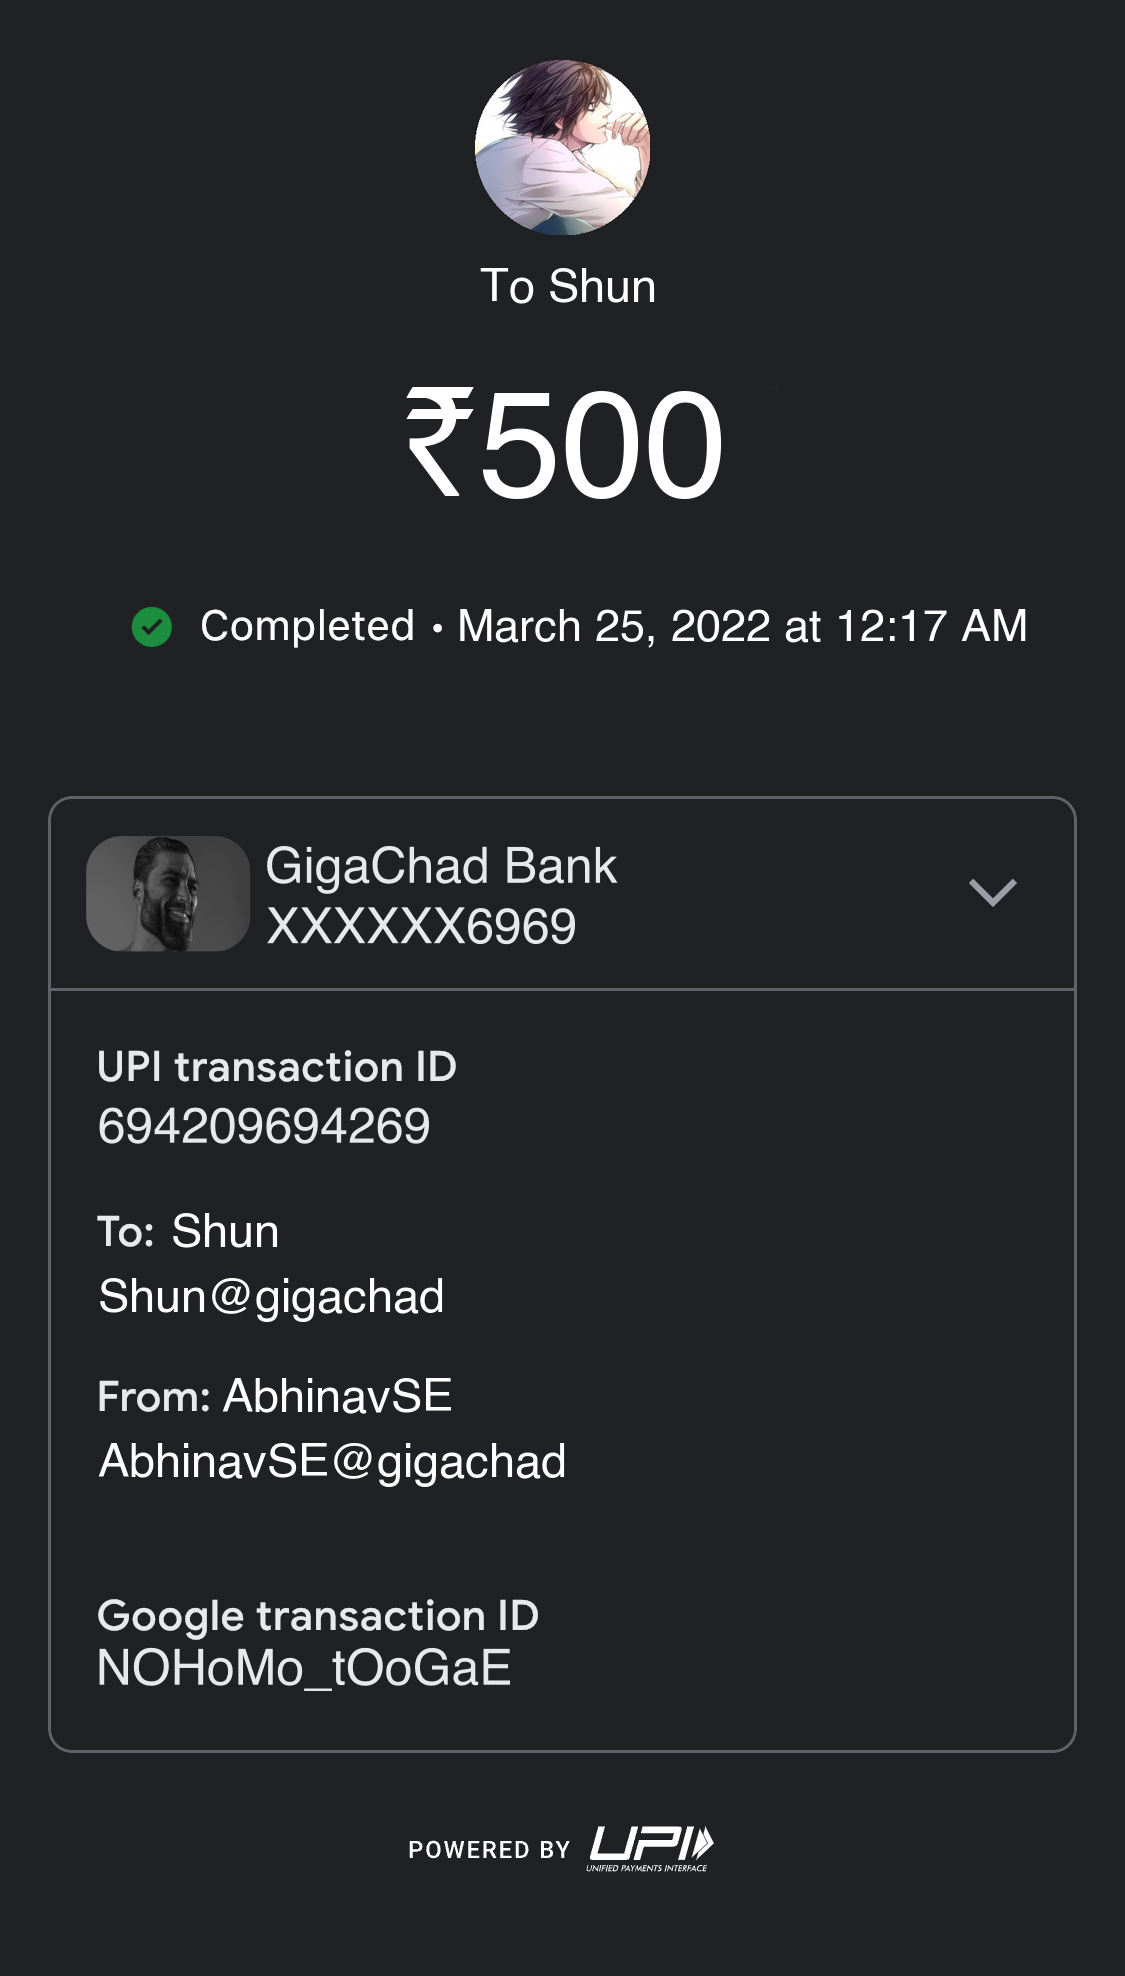
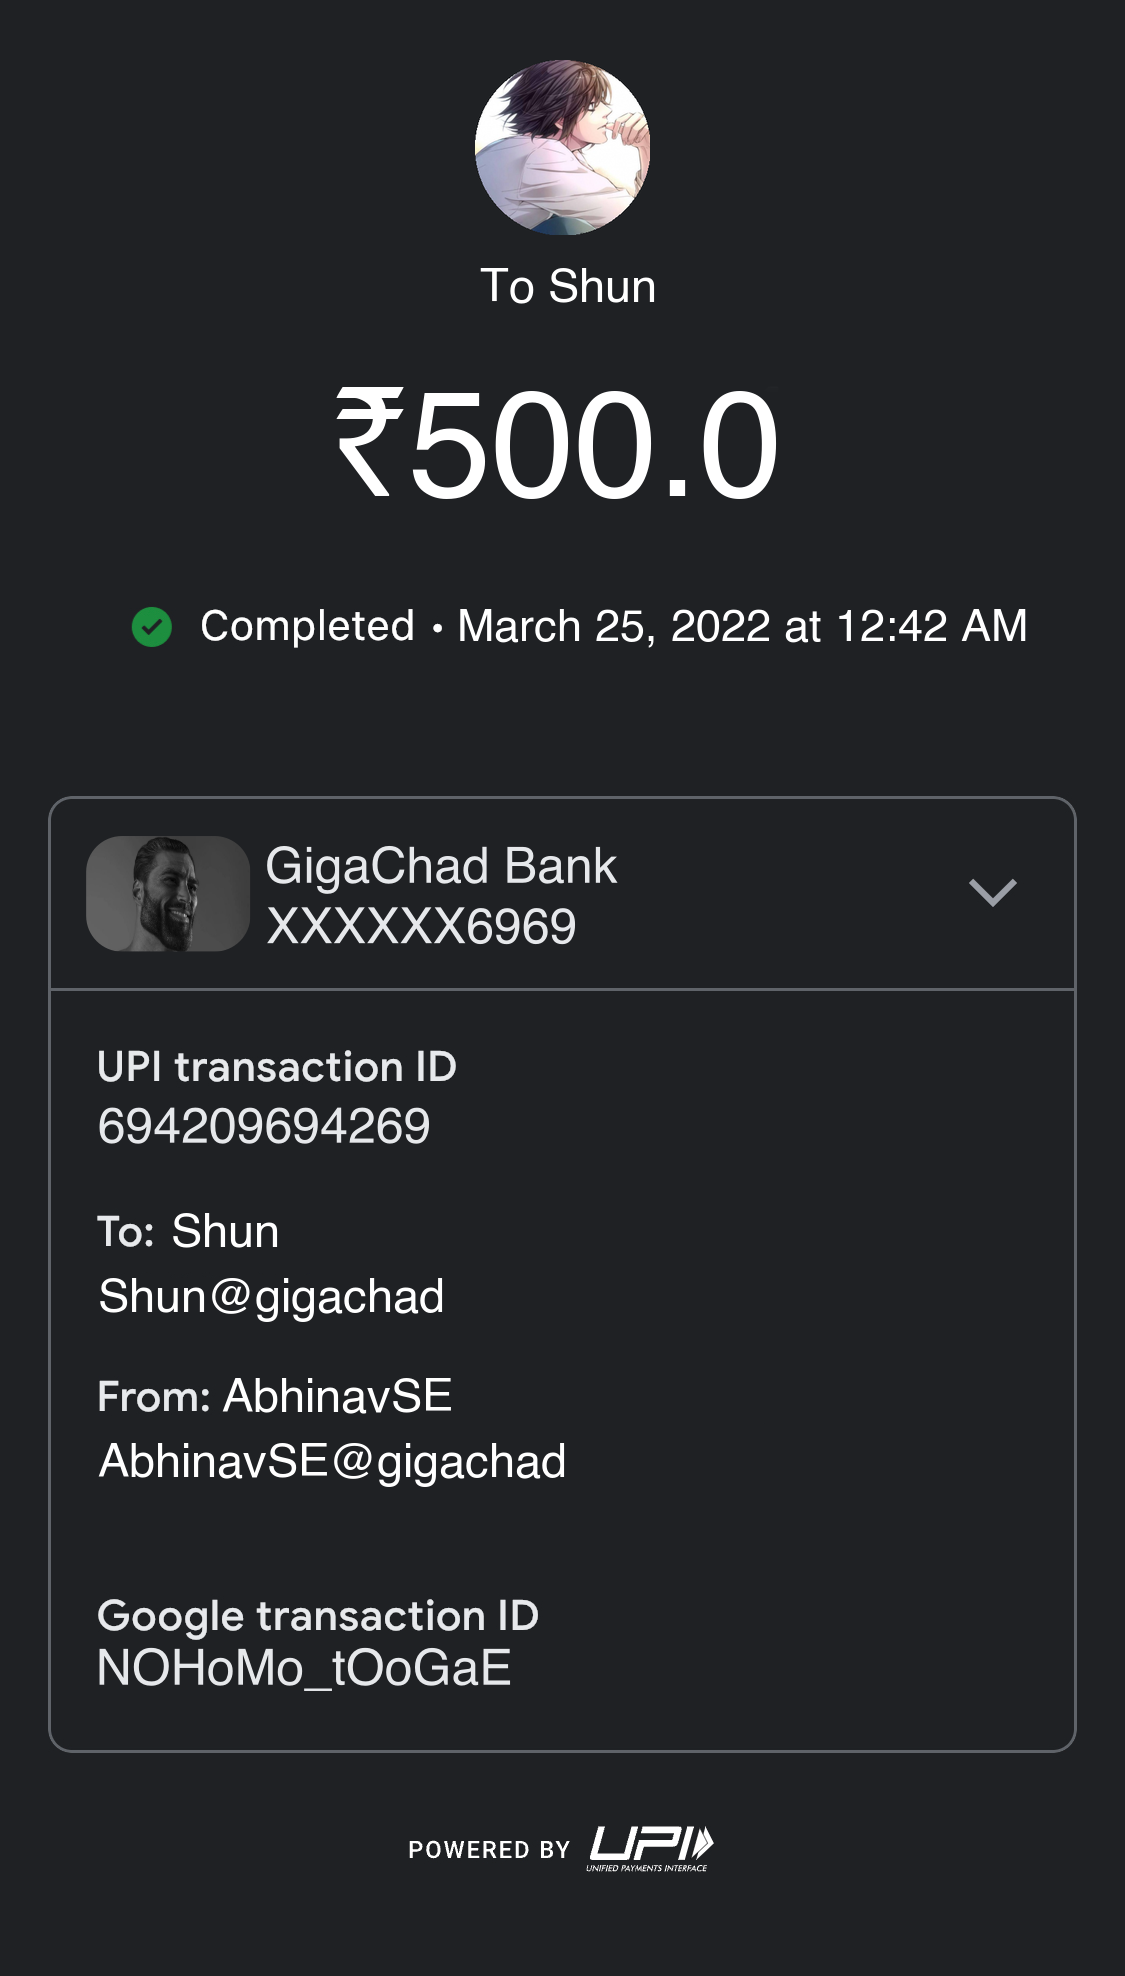
Updated Gpay commands to Cogs and added on_command_error

Changed region(s): [[0.28, 0.1852, 0.7156, 0.2778], [0.8089, 0.3087, 0.84, 0.3396]]

diff --git a/Modules/Gpay/gpay.py b/Modules/Gpay/gpay.py
@@ -6,49 +6,79 @@ from PIL import ImageFont
 from PIL import ImageColor
 from datetime import datetime
 import pytz
-import glob
+import discord
+from discord.ext import commands
 
 logger = logging.getLogger('gigachad')
 
 
-class Gpay:
-    def __init__(self):
+class Gpay(commands.Cog):
+    def __init__(self, bot):
+        self.bot = bot
         # Custom font style and font size
         self.myFont45 = ImageFont.truetype('Utils/Fonts/Helvetica.ttf', 45)
         self.myFont47 = ImageFont.truetype('Utils/Fonts/Helvetica.ttf', 47)
         self.myFont80 = ImageFont.truetype('Utils/Fonts/Helvetica.ttf', 150)
         logger.info("Gpay initialized")
 
-    def parse(self, message):
+    # def parse(self, message):
 
-        content = message.content
-        params = content.split(' ')
-        if len(params) < 3:
-            return "'$gpay' requires 2 parameters.\nExample: '$gpay <user> <amount>'"
-        if len(params) > 3:
-            return "Too many parameters bro, '$gpay' requires 2 parameters.\nExample: '$gpay <user> <amount>'"
-        if not message.mentions:
-            return "You haven't mentioned anyone bro"
-        if message.mentions[0].id == message.author.id:
-            return "You cannot send money to yourself bro"
-        if not params[2].isdigit():
-            return "You have to enter a valid amount bro"
-        if "69" in params[2]:
-            return "Mu me lele 69"
+    #     content = message.content
+    #     params = content.split(' ')
+    #     if len(params) < 3:
+    #         return "'$gpay' requires 2 parameters.\nExample: '$gpay <user> <amount>'"
+    #     if len(params) > 3:
+    #         return "Too many parameters bro, '$gpay' requires 2 parameters.\nExample: '$gpay <user> <amount>'"
+    #     if not message.mentions:
+    #         return "You haven't mentioned anyone bro"
+    #     if message.mentions[0].id == message.author.id:
+    #         return "You cannot send money to yourself bro"
+    #     if not params[2].isdigit():
+    #         return "You have to enter a valid amount bro"
+    #     if "69" in params[2]:
+    #         return "Mu me lele 69"
 
-        receiver = message.mentions[0]
-        amount = int(params[2])
+    #     receiver = message.mentions[0]
+    #     amount = int(params[2])
 
-        if amount > 999999999:
-            return "You cannot send more than ₹999,999,999 bro"
+    #     if amount > 999999999:
+    #         return "You cannot send more than ₹999,999,999 bro"
 
+    #     receiver_name = receiver.name
+    #     receiver_nickname = receiver.display_name
+    #     author = message.author
+    #     author_name = author.name
+    #     author_nickname = author.display_name
+
+    #     return self.process_image(amount, receiver_name, receiver_nickname, author_name, author_nickname)
+
+    @commands.command(
+        name='gpay',
+        help='Send money through Google pay to a user and show receipt',
+        usage='<user> <amount>',
+    )
+    async def gpay(self, ctx, receiver: discord.Member, amount: float):
+
+        if amount > 9999999:
+            await ctx.send("You cannot send more than ₹9,999,999 bro")
+            return
+        if receiver.id == ctx.author.id:
+            await ctx.send("You cannot send money to yourself bro")
+            return
+        if "69" in str(amount):
+            await ctx.send("Mu me lele 69")
+            return
+        
         receiver_name = receiver.name
         receiver_nickname = receiver.display_name
-        author = message.author
+        author = ctx.author
         author_name = author.name
         author_nickname = author.display_name
 
-        return self.process_image(amount, receiver_name, receiver_nickname, author_name, author_nickname)
+        self.process_image(amount, receiver_name, receiver_nickname, author_name, author_nickname)
+
+        await ctx.send(file=discord.File("Temp/gpay_edited.png"))
+
 
     def process_image(self, amount, receiver_name, receiver_nickname, author_name, author_nickname):
 
@@ -99,5 +129,3 @@ class Gpay:
 
         # Save the edited image
         self.img.save("Temp/gpay_edited.png")
-
-        return "success"

diff --git a/main.py b/main.py
@@ -26,12 +26,7 @@ bot = commands.Bot(command_prefix="-")
 code_runner = CodeRunner()
 replier = Replier()
 quiz_colab = QuizColab()
-# reddit = None
-# try:
-#     reddit = Reddit()
-# except Exception as e:
-#     logger.error('Reddit module failed to load: {}'.format(e))
-gpay = Gpay()
+# gpay = Gpay()
 
 probability_reaction = 25
 dice_reaction = ReplyDice(probability_reaction)
@@ -42,6 +37,7 @@ dice_reaction.add_reply("💀")
 async def on_ready():
     logger.info(f'Logged in as {bot.user.name}')
     bot.add_cog(Reddit(bot))
+    bot.add_cog(Gpay(bot))
 
 
 @bot.event
@@ -67,12 +63,27 @@ async def on_message_delete(message):
         Snipe.save(message, 'deleted')
 
 # Save edited message in Temp/snipe.json
-
-
 @bot.event
 async def on_message_edit(before, after):
     if before.author != bot.user:
         Snipe.save(before, 'edited')
+
+@bot.event
+async def on_command_error(ctx, error):
+    if isinstance(error, commands.CommandNotFound):
+        await ctx.send("Command not found bro, try `-help`")
+    elif isinstance(error, commands.MemberNotFound):
+        await ctx.send("Member not found bro")
+    elif isinstance(error, commands.MissingRequiredArgument):
+        await ctx.send(f"You are missing a required argument bro, try `-help {ctx.command.name}`")
+    elif isinstance(error, commands.BadArgument):
+        await ctx.send(f"You have entered an invalid argument bro, try `-help {ctx.command.name}`")
+    elif isinstance(error, commands.CommandOnCooldown):
+        await ctx.send(f"You are on cooldown bro, try again in {error.retry_after:.2f} seconds")
+    elif isinstance(error, commands.CheckFailure):
+        await ctx.send("You don't have permission to use this command bro")
+    else:
+        logger.error(error)
 
 
 @bot.command(
@@ -110,34 +121,16 @@ async def editsnipe_parsing(ctx):
     if msg is not None and msg != "":
         await ctx.channel.send(msg)
 
-
 # @bot.command(
-#     name='reddit',
+#     name='gpay',
 # )
-# async def reddit_parsing(ctx):
-#     msg = reddit.parse(ctx.message)
-#     if msg is not None and msg != "":
-#         await ctx.channel.send(msg)
-
-
-@bot.command(
-    name='gpay',
-)
-async def gpay_parsing(ctx):
-    for user in ctx.message.mentions:
-        await user.avatar_url_as(static_format='png', size=256).save("Temp/gpay_receiver.png")
-    msg = gpay.parse(ctx.message)
-    if msg == "success":
-        await ctx.channel.send(file=discord.File('Temp/gpay_edited.png'))
-    else:
-        await ctx.channel.send(msg)
-
-# @bot.command(
-#     name='valo',
-# )
-# async def valo_parsing(ctx):
-#     msg = Valorant(ctx).parse()
-#     if msg is not None and msg != "":
+# async def gpay_parsing(ctx):
+#     for user in ctx.message.mentions:
+#         await user.avatar_url_as(static_format='png', size=256).save("Temp/gpay_receiver.png")
+#     msg = gpay.parse(ctx.message)
+#     if msg == "success":
+#         await ctx.channel.send(file=discord.File('Temp/gpay_edited.png'))
+#     else:
 #         await ctx.channel.send(msg)
 
 if __name__ == '__main__':

diff --git a/Modules/Reddit/reddit.py b/Modules/Reddit/reddit.py
@@ -66,7 +66,8 @@ class Reddit(commands.Cog):
     @commands.command(
         name='reddit', 
         aliases=['r', 'meme'],
-        help = 'Get a random meme from a subreddit'
+        help = 'Get a random meme from a subreddit',
+        usage='<subreddit>'
     )
     async def reddit_command(self, ctx, *, fuzzy_subreddit=None):
         """
